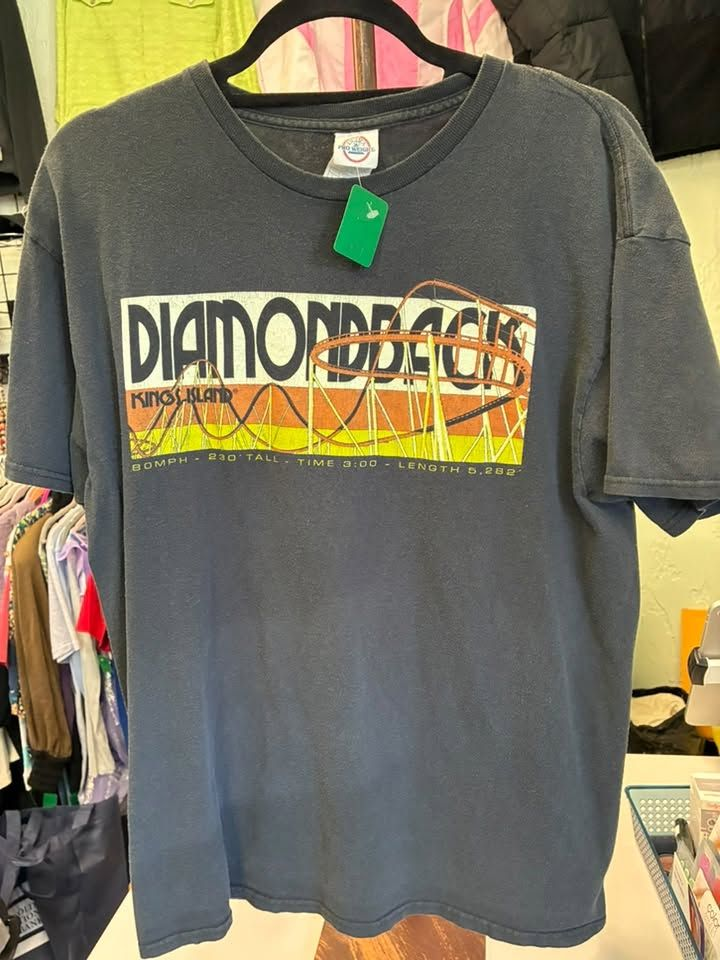
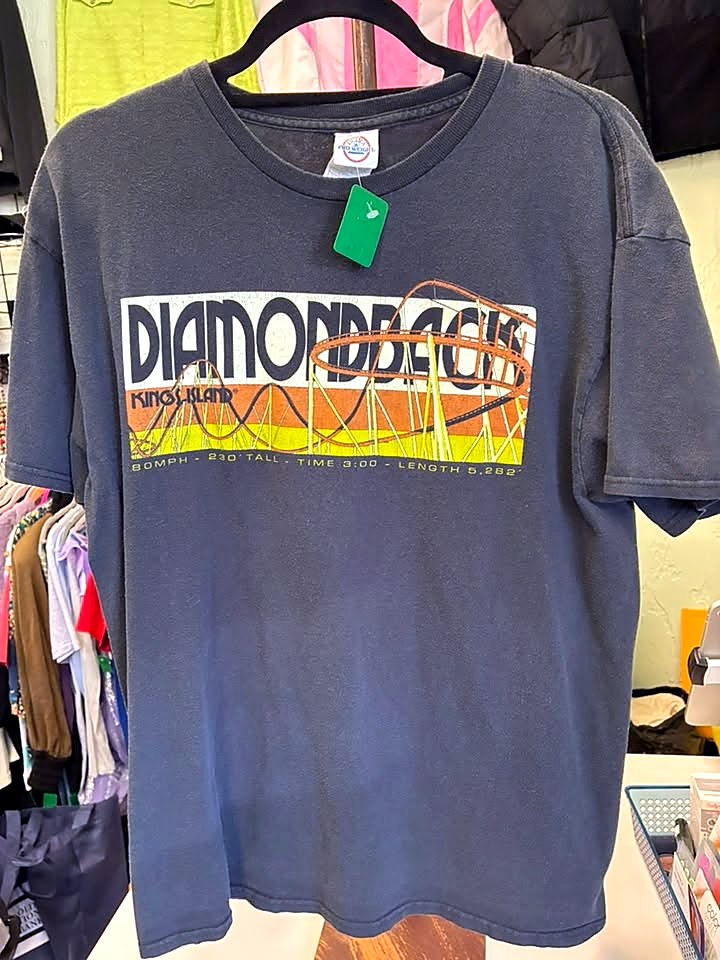
Bigger, sharper product photos with tap-to-zoom
Re-export photos at full resolution with a light brightness/contrast/sharpen
pass, enlarge the product cards, and open a full-size viewer on tap. The
Lister now uploads 1600px photos with the same touch-up.

Claude-Session: https://claude.ai/code/session_017XbUihf8hxTp34LrWfL3vY

diff --git a/index.html b/index.html
@@ -134,14 +134,23 @@ section.block { padding-block: 72px; border-top: 1px solid var(--line); }
 
 
 /* Rack: product grid */
-.rack { display: grid; grid-template-columns: repeat(auto-fill, minmax(min(200px, 100%), 1fr)); gap: 20px; margin-bottom: 40px; }
-.item { display: grid; grid-template-rows: auto 1fr; background: var(--card); border: 1px solid var(--line); border-radius: var(--radius); overflow: hidden; min-width: 0; }
-.item img { display: block; width: 100%; aspect-ratio: 3 / 4; object-fit: cover; background: var(--line); }
-.item-body { display: grid; gap: 6px; padding: 14px 16px 16px; align-content: start; }
-.item h3 { font-size: 1.05rem; }
-.item .meta { display: flex; justify-content: space-between; align-items: baseline; gap: 8px; font: 500 0.85rem/1.3 var(--mono); color: var(--ink-soft); }
-.item .price { font: 400 1.25rem/1 var(--display); color: var(--ink); font-variant-numeric: tabular-nums; }
-.item .buy { justify-self: start; margin-top: 6px; font: 600 0.9rem/1 var(--body); color: var(--thread); text-decoration: none; }
+.rack { display: grid; grid-template-columns: repeat(auto-fill, minmax(min(300px, 100%), 1fr)); gap: 28px; margin-bottom: 48px; }
+.item { display: grid; grid-template-rows: auto 1fr; background: var(--card); border: 1px solid var(--line); border-radius: 14px; overflow: hidden; min-width: 0; }
+.item .zoom { display: block; padding: 0; border: 0; background: var(--line); cursor: zoom-in; overflow: hidden; }
+.item img { display: block; width: 100%; height: auto; aspect-ratio: 4 / 5; object-fit: cover; object-position: center 30%; transition: transform 0.4s ease; }
+.item .zoom:hover img { transform: scale(1.04); }
+@media (prefers-reduced-motion: reduce) { .item img { transition: none; } .item .zoom:hover img { transform: none; } }
+.item-body { display: grid; gap: 8px; padding: 18px 20px 20px; align-content: start; }
+.item h3 { font-size: 1.2rem; }
+.item .meta { display: flex; justify-content: space-between; align-items: baseline; gap: 8px; font: 500 0.9rem/1.3 var(--mono); color: var(--ink-soft); }
+.item .price { font: 400 1.5rem/1 var(--display); color: var(--ink); font-variant-numeric: tabular-nums; }
+.item .buy { justify-self: start; margin-top: 6px; font: 600 1rem/1 var(--body); color: var(--thread); text-decoration: none; }
+/* Full-size photo viewer */
+.viewer { border: 0; padding: 0; background: transparent; max-width: min(96vw, 900px); max-height: 94vh; }
+.viewer::backdrop { background: rgba(10, 14, 24, 0.86); }
+.viewer img { display: block; max-width: 100%; max-height: 86vh; width: auto; height: auto; margin-inline: auto; border-radius: 10px; }
+.viewer p { color: #fff; text-align: center; margin-top: 10px; font-weight: 600; }
+.viewer .close { position: absolute; top: 8px; right: 8px; width: 44px; height: 44px; border-radius: 50%; border: 0; background: rgba(0,0,0,0.55); color: #fff; font-size: 1.5rem; line-height: 1; cursor: pointer; }
 .rack-empty { color: var(--ink-soft); grid-column: 1 / -1; }
 .item .buy:hover { text-decoration: underline; text-underline-offset: 4px; }
 
@@ -322,6 +331,12 @@ footer { border-top: 1px solid var(--line); padding-block: 36px 48px; display: f
   </footer>
 </div>
 
+<dialog class="viewer" id="viewer">
+  <img id="viewer-img" alt="">
+  <p id="viewer-name"></p>
+  <button class="close" type="button" id="viewer-close" aria-label="Close">×</button>
+</dialog>
+
 <script>
   // ===== EDIT THESE LINKS =====
   // Paste the real URLs once each account exists. Leave a value blank to keep the default.
@@ -349,11 +364,22 @@ footer { border-top: 1px solid var(--line); padding-block: 36px 48px; display: f
       var link = p.depop || LINKS.facebook;
       var label = p.depop ? "Buy on Depop →" : "Message to buy →";
       return '<article class="item">' +
-        '<img src="' + esc(p.image) + '" alt="' + esc(p.name) + '" loading="lazy" width="720" height="960">' +
+        '<button class="zoom" type="button" data-full="' + esc(p.image) + '" data-name="' + esc(p.name) + '" aria-label="View larger photo of ' + esc(p.name) + '">' +
+        '<img src="' + esc(p.image) + '" alt="' + esc(p.name) + '" loading="lazy" width="1125" height="1406"></button>' +
         '<div class="item-body"><h3>' + esc(p.name) + '</h3>' +
         '<div class="meta"><span>' + meta + '</span><span class="price">' + price + '</span></div>' +
         '<a class="buy" href="' + esc(link) + '" target="_blank" rel="noopener">' + label + '</a></div></article>';
     }
+    var viewer = document.getElementById("viewer");
+    rack.addEventListener("click", function (e) {
+      var z = e.target.closest(".zoom"); if (!z || !viewer.showModal) return;
+      document.getElementById("viewer-img").src = z.getAttribute("data-full");
+      document.getElementById("viewer-img").alt = z.getAttribute("data-name");
+      document.getElementById("viewer-name").textContent = z.getAttribute("data-name");
+      viewer.showModal();
+    });
+    document.getElementById("viewer-close").addEventListener("click", function () { viewer.close(); });
+    viewer.addEventListener("click", function (e) { if (e.target === viewer) viewer.close(); });
     fetch("products.json", { cache: "no-cache" })
       .then(function (r) { if (!r.ok) throw new Error(r.status); return r.json(); })
       .then(function (items) {

diff --git a/admin.html b/admin.html
@@ -207,11 +207,14 @@ a { color: inherit; }
     return new Promise(function (resolve, reject) {
       var img = new Image();
       img.onload = function () {
-        var scale = Math.min(1, 1066 / Math.max(img.width, img.height));
+        var scale = Math.min(1, 1600 / Math.max(img.width, img.height));
         var c = document.createElement("canvas");
         c.width = Math.round(img.width * scale); c.height = Math.round(img.height * scale);
-        c.getContext("2d").drawImage(img, 0, 0, c.width, c.height);
-        c.toBlob(function (b) { b ? resolve(b) : reject(new Error("Couldn't read that photo.")); }, "image/jpeg", 0.82);
+        var ctx = c.getContext("2d");
+        // Light touch-up so shop-light photos look crisp: a little brighter, more contrast and color.
+        if ("filter" in ctx) ctx.filter = "brightness(1.04) contrast(1.06) saturate(1.08)";
+        ctx.drawImage(img, 0, 0, c.width, c.height);
+        c.toBlob(function (b) { b ? resolve(b) : reject(new Error("Couldn't read that photo.")); }, "image/jpeg", 0.88);
         URL.revokeObjectURL(img.src);
       };
       img.onerror = function () { reject(new Error("Couldn't read that photo. Try a JPG or PNG.")); };
